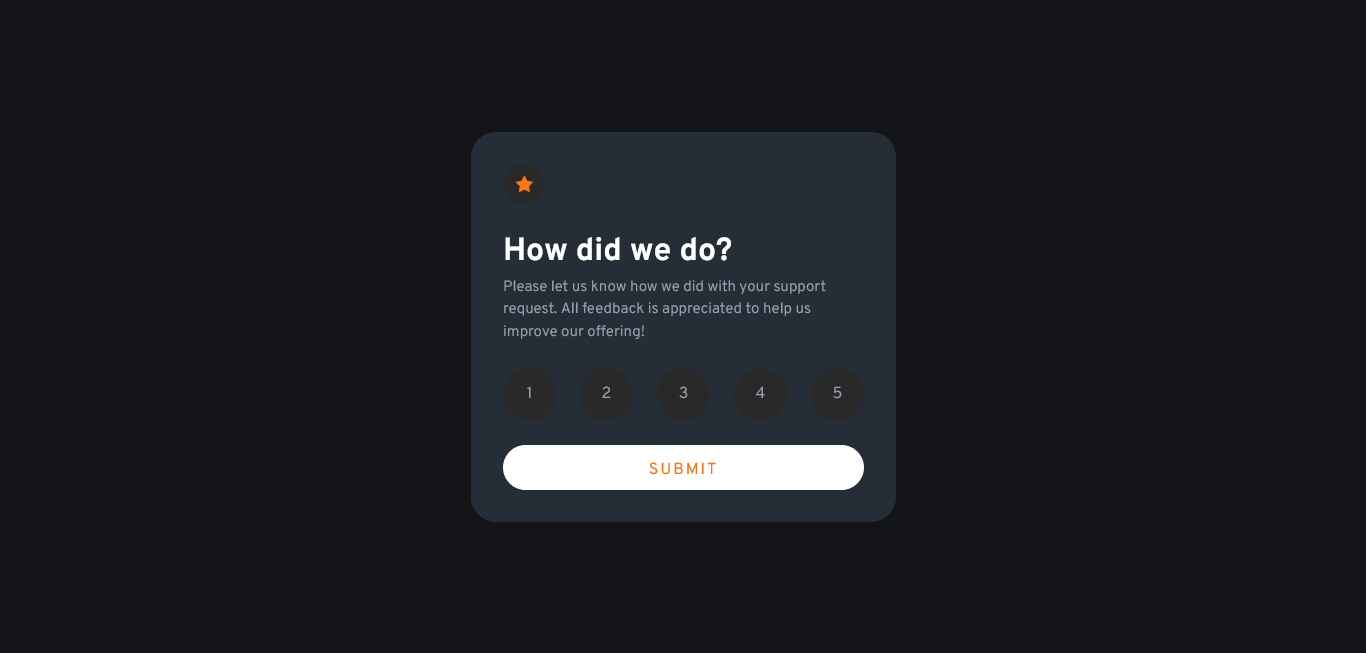
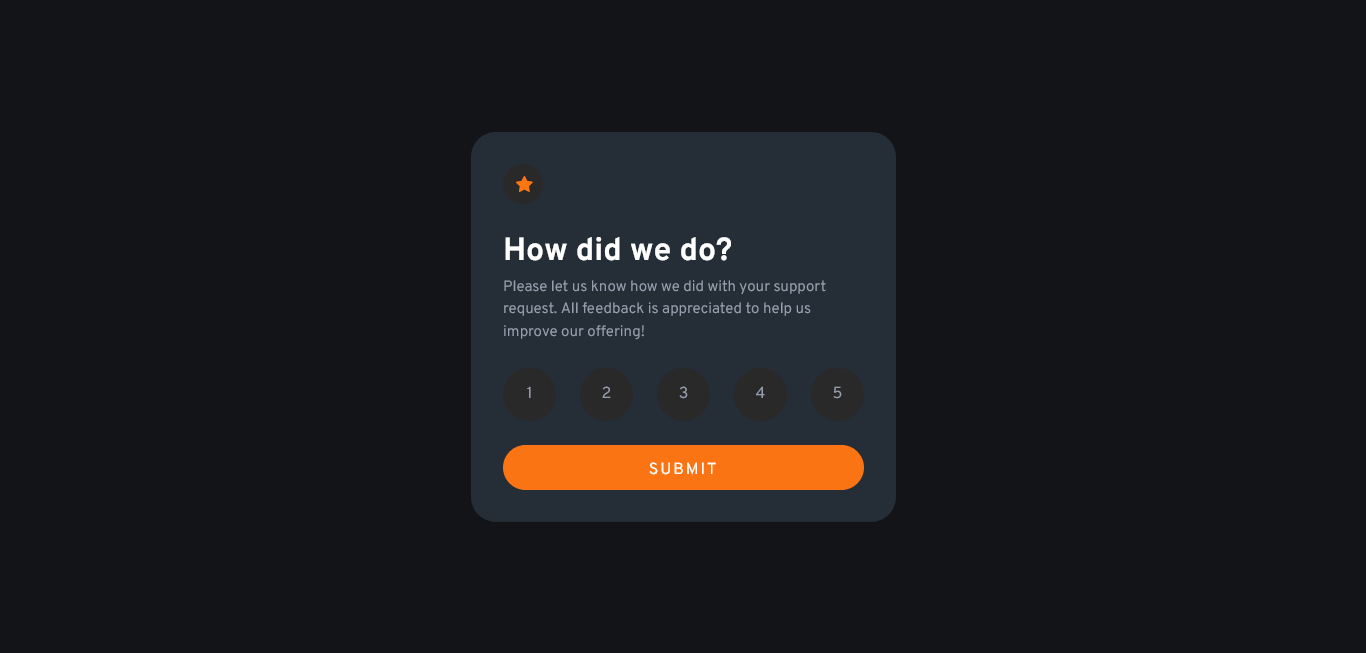
Fix submit button

Changed region(s): [[0.369, 0.6738, 0.6457, 0.7657]]

diff --git a/src/styles/App.css b/src/styles/App.css
@@ -1,8 +1,9 @@
 @import url("https://fonts.googleapis.com/css2?family=Overpass:wght@400;700&display=swap");
 
 :root {
-  --clr-orange: hsl(25, 97%, 53%);
   --clr-green: lime;
+  --clr-orange: hsl(25, 97%, 53%);
+  --clr-lightorange: hsl(25, 97%, 60%);
 
   --clr-neutral-100: hsl(0, 0%, 100%);
   --clr-neutral-200: hsl(217, 12%, 93%);
@@ -120,19 +121,19 @@ h1 {
   line-height: calc(var(--height) + 5px);
   letter-spacing: 0.125em;
   text-transform: uppercase;
-  color: var(--clr-orange);
-  background-color: var(--clr-neutral-100);
   border: none;
   border-radius: 25px;
+  color: var(--clr-neutral-100);
+  background-color: var(--clr-orange);
 }
 
 .btn-submit:hover {
-  background-color: var(--clr-neutral-200);
+  background-color: var(--clr-lightorange);
 }
 
 .btn-submit:active {
-  color: var(--clr-neutral-100);
-  background-color: var(--clr-orange);
+  color: var(--clr-orange);
+  background-color: var(--clr-neutral-100);
 }
 
 .btn-submitted {
